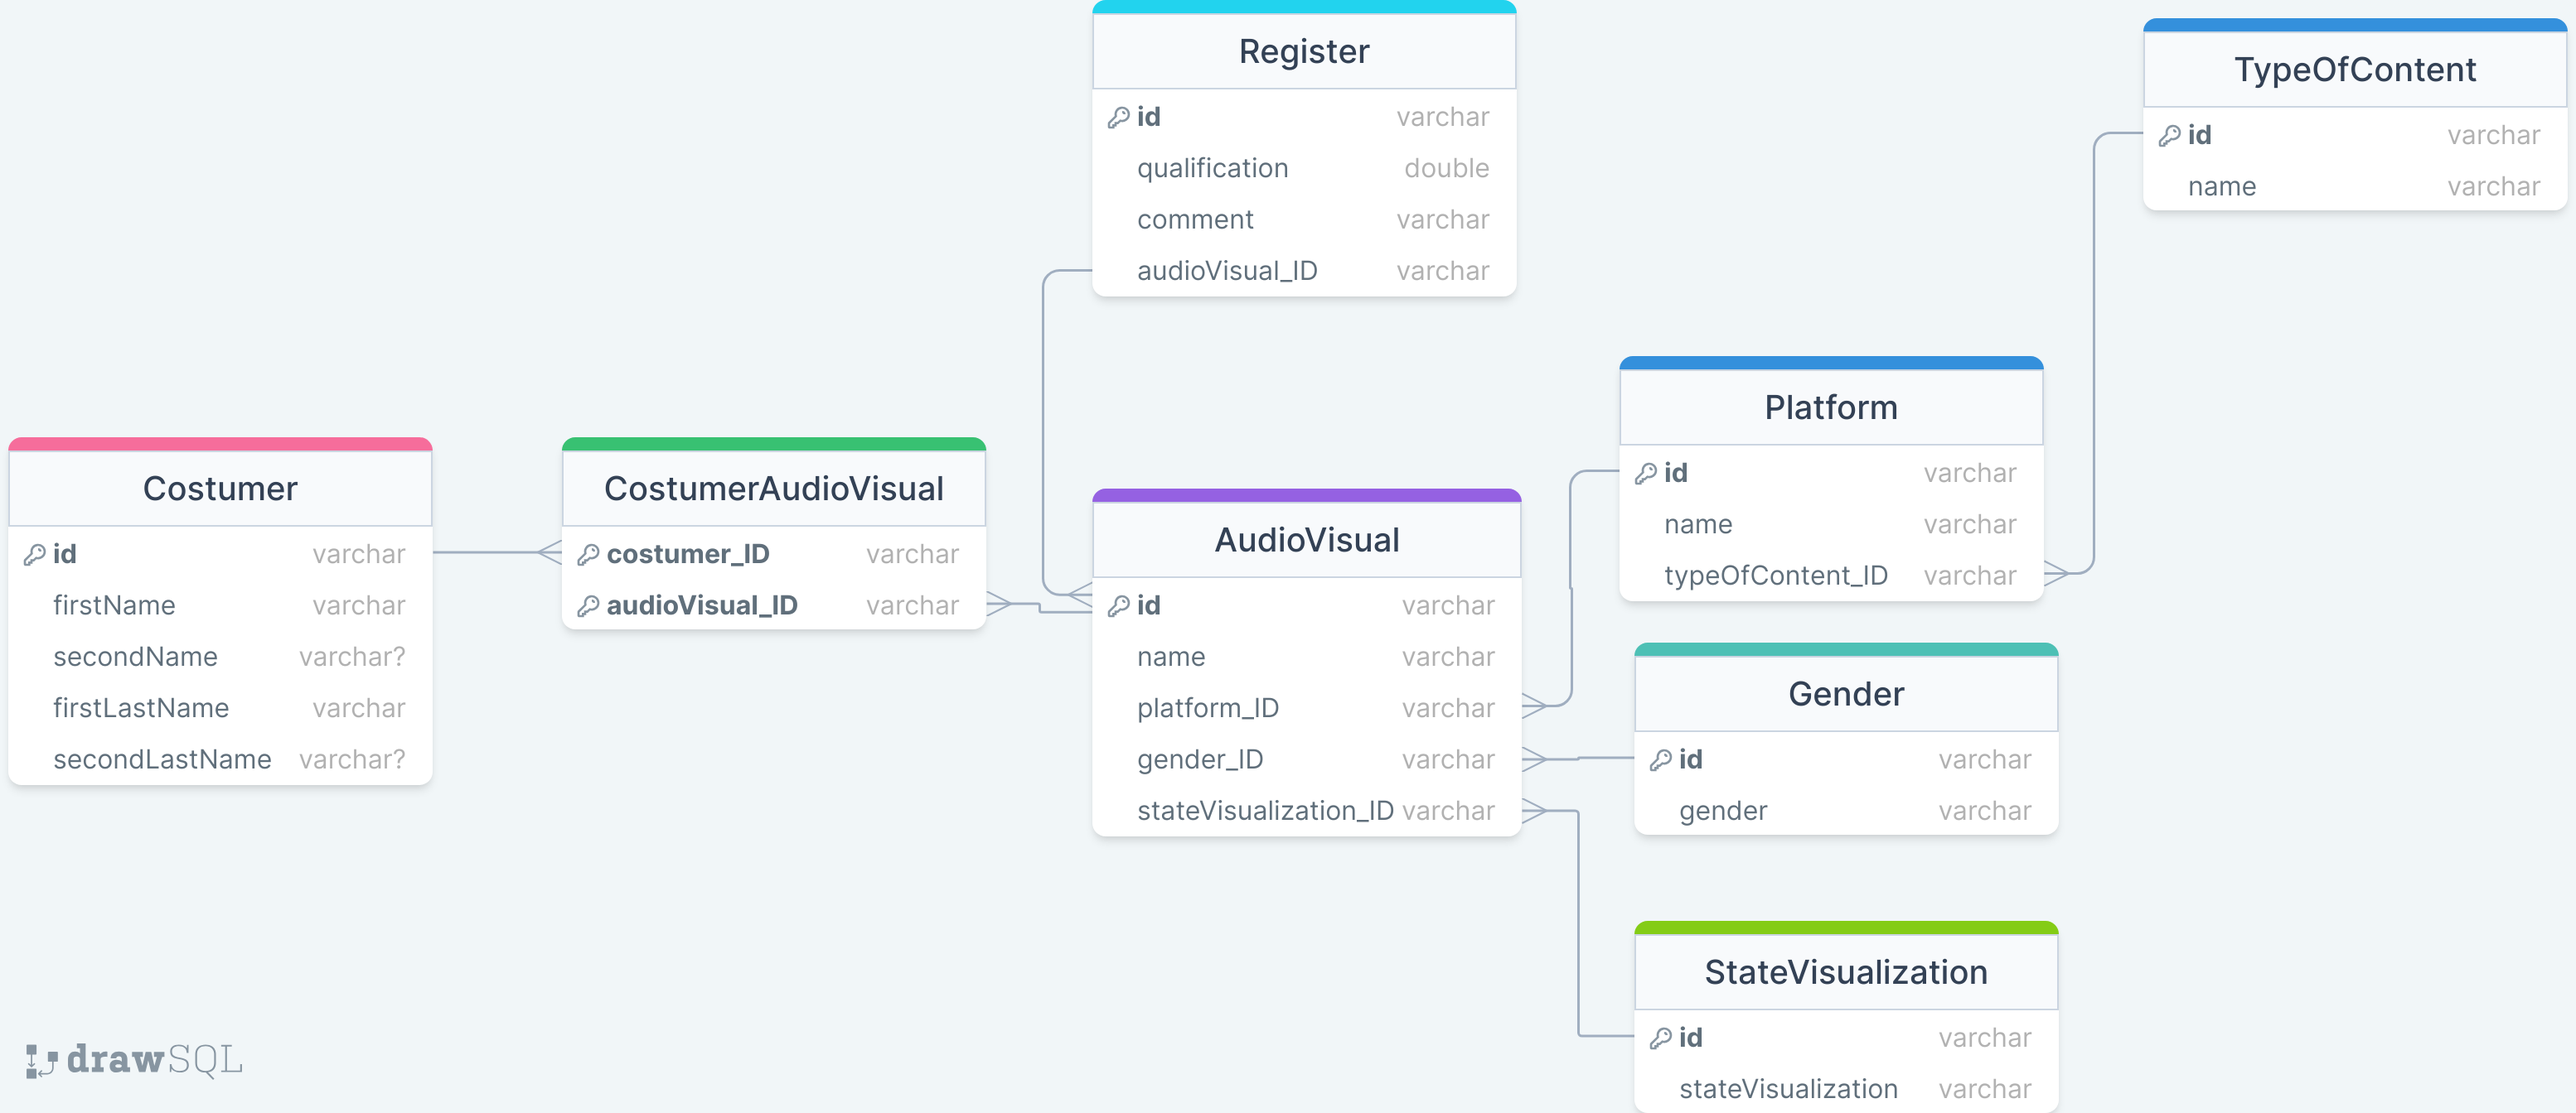
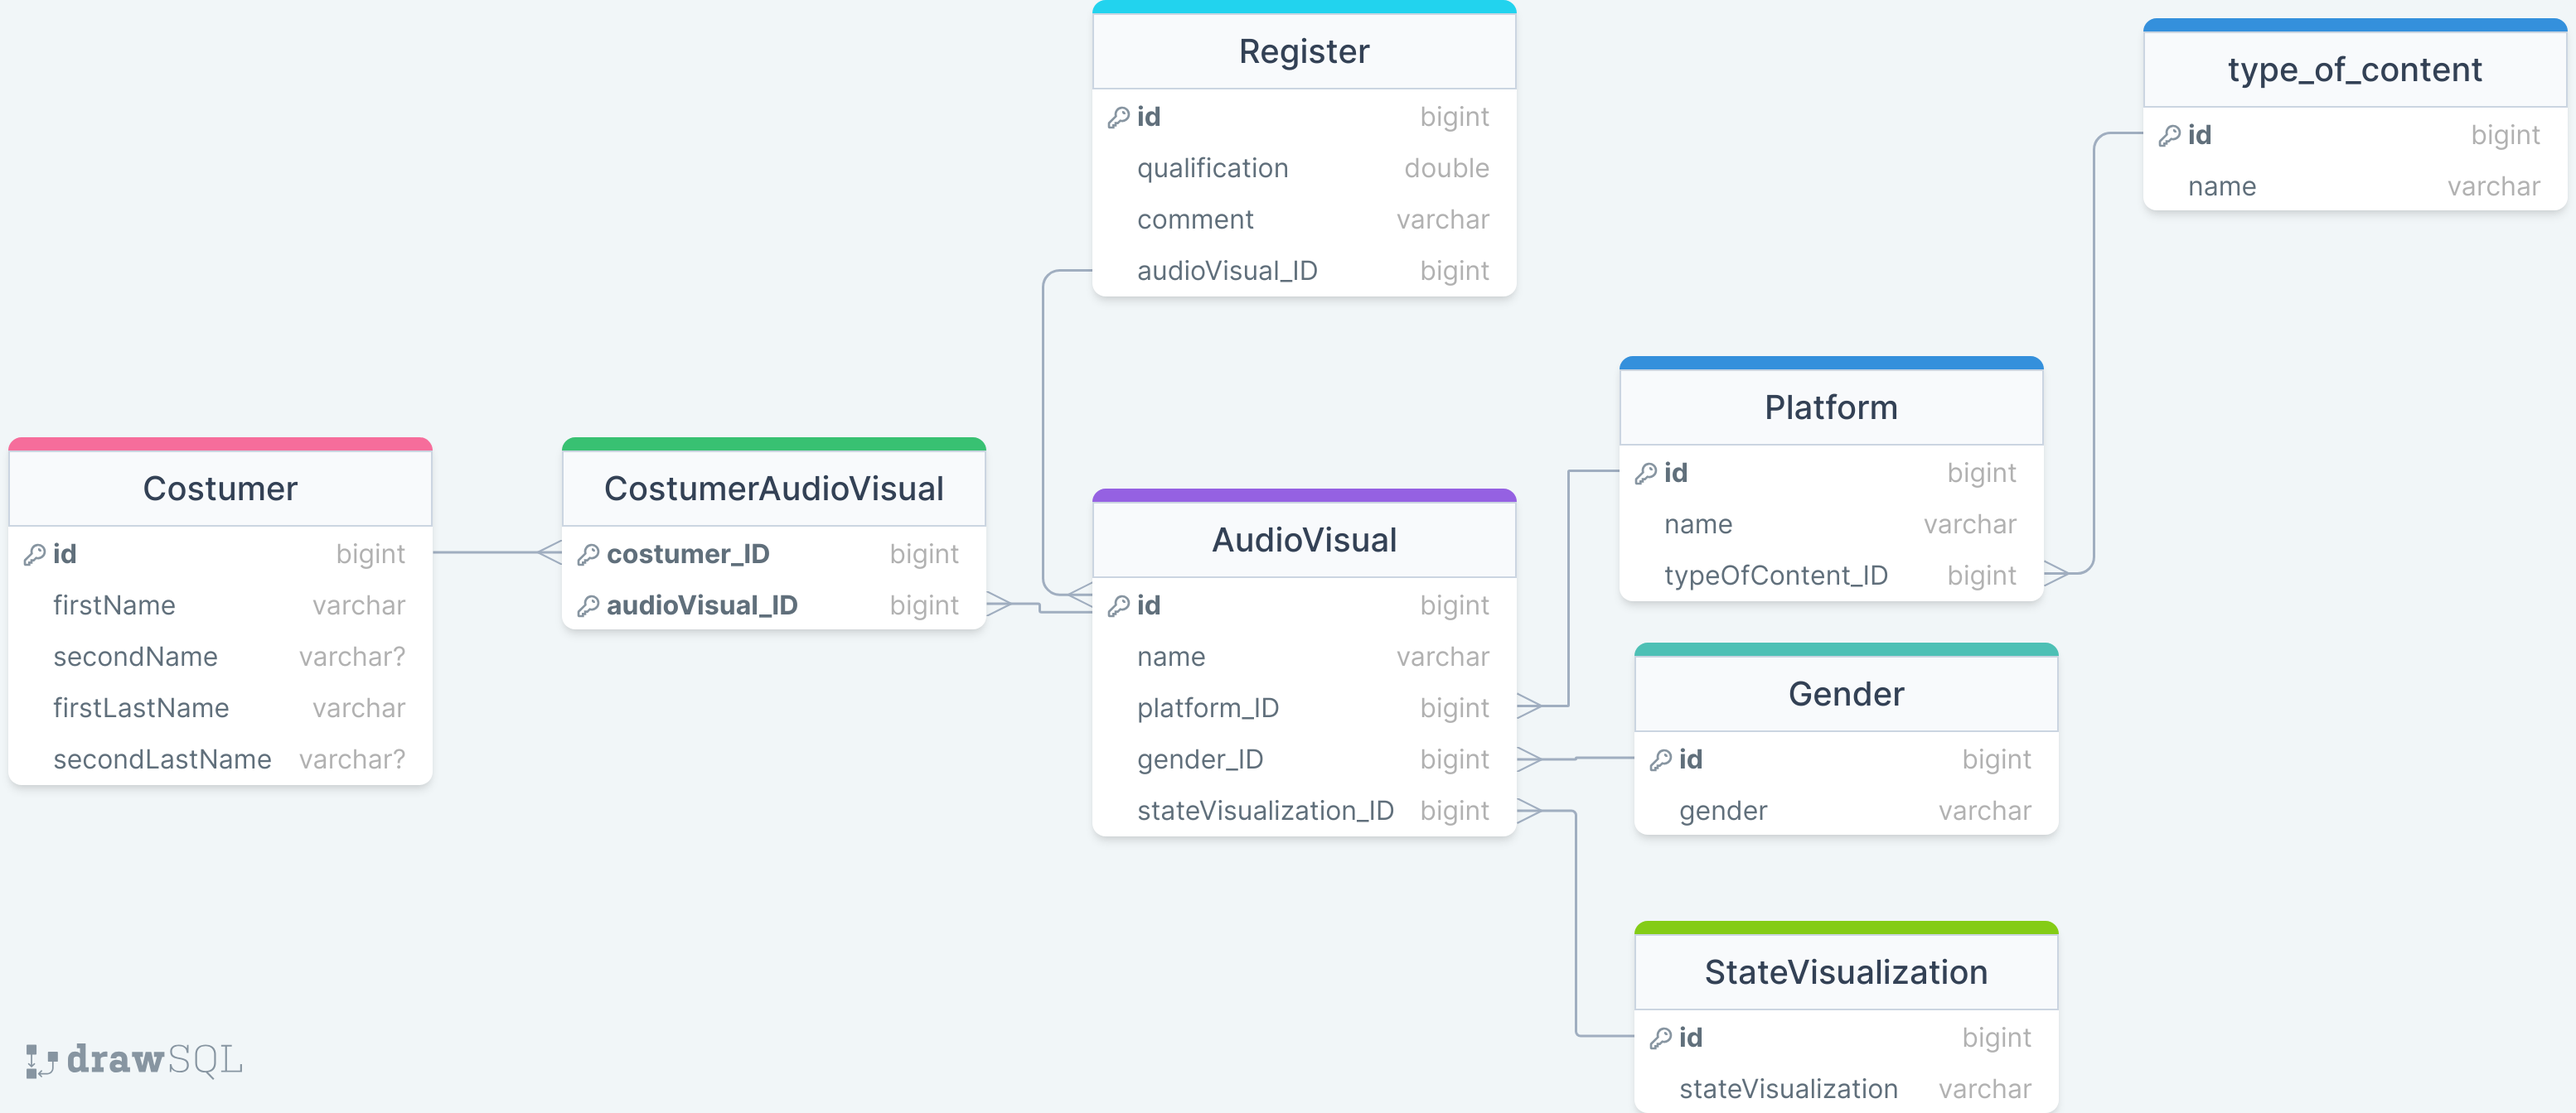
feat: :sparkles: The basic methods with TypeOfContent are completed
It save, select all and for name, with security

diff --git a/src/main/java/com/example/FiltroSpringBoot/Web/Controller/TypeOfContentController.java b/src/main/java/com/example/FiltroSpringBoot/Web/Controller/TypeOfContentController.java
@@ -10,7 +10,6 @@ import org.springframework.security.access.prepost.PreAuthorize;
 import org.springframework.web.bind.annotation.*;
 
 import com.example.FiltroSpringBoot.Domain.Service.TypeOfContentService;
-import com.example.FiltroSpringBoot.Persistence.DTO.TypeOfContentDTO;
 import com.example.FiltroSpringBoot.Persistence.Entity.TypeOfContent;
 
 
@@ -27,6 +26,16 @@ public class TypeOfContentController {
     @GetMapping
     public List<TypeOfContent> findAllTypeOfContents() {
         return typeOfContentService.findAllTypeOfContents();
+    }
+
+    @GetMapping("/{name}")
+    public ResponseEntity<TypeOfContent> getTypeOfContentByName(@PathVariable String name) {
+        ResponseEntity<TypeOfContent> responseEntity = typeOfContentService.getTypeOfContentByName(name);
+        if (responseEntity.getBody() != null) {
+            return ResponseEntity.ok(responseEntity.getBody());
+        } else {
+            return ResponseEntity.notFound().build();
+        }
     }
 
     @PostMapping("/save")

diff --git a/src/main/java/com/example/FiltroSpringBoot/Domain/Service/Impl/TypeOfContentImpl.java b/src/main/java/com/example/FiltroSpringBoot/Domain/Service/Impl/TypeOfContentImpl.java
@@ -32,9 +32,8 @@ public class TypeOfContentImpl implements TypeOfContentService {
     public ResponseEntity<TypeOfContent> getTypeOfContentByName(String name) {
         // Aquí debes implementar la lógica para buscar por nombre
         // Por ejemplo:
-        // TypeOfContent typeOfContent = typeOfContentRepository.findByName(name);
-        // return typeOfContent != null ? ResponseEntity.ok(typeOfContent) : ResponseEntity.notFound().build();
-        throw new UnsupportedOperationException("Unimplemented method 'getTypeOfContentByName'");
+        TypeOfContent typeOfContent = typeOfContentRepository.findByName(name);
+        return typeOfContent != null ? ResponseEntity.ok(typeOfContent) : ResponseEntity.notFound().build();
     }
 
     @Override

diff --git a/src/main/java/com/example/FiltroSpringBoot/Domain/Repository/TypeOfContentRepository.java b/src/main/java/com/example/FiltroSpringBoot/Domain/Repository/TypeOfContentRepository.java
@@ -9,5 +9,5 @@ import com.example.FiltroSpringBoot.Persistence.Entity.TypeOfContent;
 public interface TypeOfContentRepository extends JpaRepository<TypeOfContent, Long> {
 
     //Save, Select
-
+    TypeOfContent findByName(String name); // Agrega este método para buscar por nombre
 }

diff --git a/README.md b/README.md
@@ -17,6 +17,78 @@ The project will utilize the following technologies in Backend:
 ## Database Design
 ![Database Design](/src/main/resources/imagesDocumentation/DataBaseImage.png)
 
+### The file is FilterSpring.sql in Resources
+
+<details>
+   <summary>FilterSpring.sql</summary>
+
+   1. Queries
+
+   ```sql
+    DROP DATABASE IF EXISTS filtro;
+    CREATE DATABASE filtro;
+    USE filtro; 
+
+    CREATE TABLE type_of_content(
+        id BIGINT AUTO_INCREMENT PRIMARY KEY,
+        name VARCHAR(255) NOT NULL
+    );
+
+    CREATE TABLE StateVisualization(
+        id BIGINT AUTO_INCREMENT PRIMARY KEY,
+        stateVisualization VARCHAR(255) NOT NULL
+    );
+
+    CREATE TABLE Gender(
+        id BIGINT AUTO_INCREMENT PRIMARY KEY,
+        gender VARCHAR(255) NOT NULL
+    );
+
+    CREATE TABLE Costumer(
+        id BIGINT AUTO_INCREMENT PRIMARY KEY,
+        firstName VARCHAR(255) NOT NULL,
+        secondName VARCHAR(255),
+        firstLastName VARCHAR(255) NOT NULL,
+        secondLastName VARCHAR(255)
+    );
+
+    CREATE TABLE Platform(
+        id BIGINT AUTO_INCREMENT PRIMARY KEY,
+        name VARCHAR(255) NOT NULL,
+        typeOfContent_ID BIGINT NOT NULL,
+        FOREIGN KEY(typeOfContent_ID) REFERENCES type_of_content(id)
+    );
+
+    CREATE TABLE AudioVisual(
+        id BIGINT AUTO_INCREMENT PRIMARY KEY,
+        name VARCHAR(255) NOT NULL,
+        platform_ID BIGINT NOT NULL,
+        gender_ID BIGINT NOT NULL,
+        stateVisualization_ID BIGINT NOT NULL,
+        FOREIGN KEY(platform_ID) REFERENCES Platform(id),
+        FOREIGN KEY(gender_ID) REFERENCES Gender(id),
+        FOREIGN KEY(stateVisualization_ID) REFERENCES StateVisualization(id)
+    );
+
+    CREATE TABLE CostumerAudioVisual(
+        costumer_ID BIGINT NOT NULL,
+        audioVisual_ID BIGINT NOT NULL,
+        PRIMARY KEY(costumer_ID, audioVisual_ID),
+        FOREIGN KEY(costumer_ID) REFERENCES Costumer(id),
+        FOREIGN KEY(audioVisual_ID) REFERENCES AudioVisual(id)
+    );
+
+    CREATE TABLE Register(
+        id BIGINT AUTO_INCREMENT PRIMARY KEY,
+        qualification DOUBLE NOT NULL,
+        comment VARCHAR(255) NOT NULL,
+        audioVisual_ID BIGINT NOT NULL,
+        FOREIGN KEY(audioVisual_ID) REFERENCES AudioVisual(id)
+    );
+   ```
+
+</details>
+
 ### Remember to change user and password if you are going to see the API in Campus, and to work with Swagger
 
 ![ApplicationPropierties](/src/main/resources/imagesDocumentation/AplicationPropierties.png)
@@ -69,6 +141,8 @@ The project will utilize the following technologies in Backend:
 ![Register and create the Web Token](/src/main/resources/imagesDocumentation/RegisterSecurity.png)
 
 ![Login and create the Web Token](/src/main/resources/imagesDocumentation/LoginSecurity.png)
+
+![Save TypeOfData the Web Token](/src/main/resources/imagesDocumentation/SaveTypeOfData.png)
 
 ![Get Data with Web Token](/src/main/resources/imagesDocumentation/GetTypeOfData.png)
 
